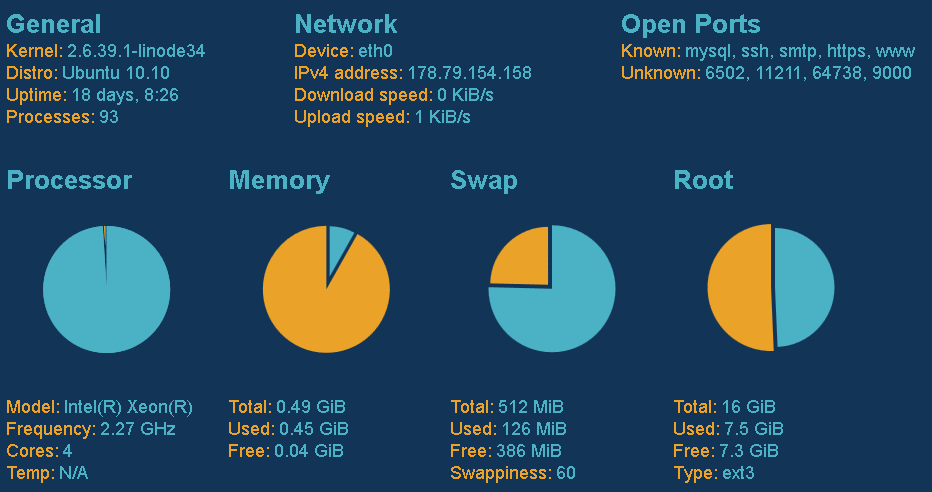
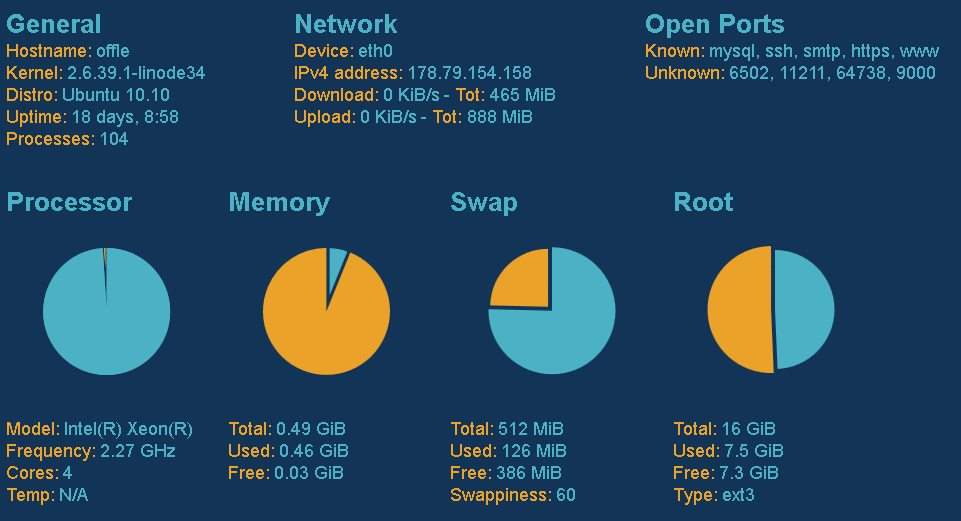
Added hostname and total ul/dl

diff --git a/index.html b/index.html
@@ -55,6 +55,8 @@
         $.getJSON('./php/get_data.php?q=network', function(data) {
             $('#dl_speed').html(data.dl_speed);
             $('#ul_speed').html(data.ul_speed);
+            $('#total_downloaded').html(data.total_downloaded);
+            $('#total_uploaded').html(data.ul_total_uploaded);
             setTimeout(get_network_json_data, 10 * 1000);
         });
     }
@@ -167,6 +169,7 @@
         <div id="without_graph" style="overflow:hidden;">
             <div style="float:left;">
                 <span class="header">General</span>
+                <div><span class="label">Hostname:</span> <span id="hostname" class="value"></span></div>
                 <div><span class="label">Kernel:</span> <span id="kernel" class="value"></span></div>
                 <div><span class="label">Distro:</span> <span id="distro" class="value"></span></div>
                 <div><span class="label">Uptime:</span> <span id="uptime" class="value"></span></div>
@@ -176,8 +179,8 @@
                 <span class="header">Network</span>
                 <div><span class="label">Device:</span> <span id="network_device" class="value"></span></div>
                 <div><span class="label">IPv4 address:</span> <span id="ipv4_addr" class="value"></span></div>
-                <div><span class="label">Download speed:</span> <span id="dl_speed" class="value"></span></div>
-                <div><span class="label">Upload speed:</span> <span id="ul_speed" class="value"></span></div>
+                <div><span class="label">Download:</span> <span id="dl_speed" class="value"></span> <span class="value"> -</span><span class="label"> Tot: </span><span id="total_downloaded" class="value"></span></div>
+                <div><span class="label">Upload:</span> <span id="ul_speed" class="value"></span> <span class="value"> -</span><span class="label"> Tot: </span><span id="total_uploaded" class="value"></span></div>
             </div>
             <div style="float:left; margin-left:7%;">
                 <span class="header">Open Ports</span>

diff --git a/php/systemstats.class.php b/php/systemstats.class.php
@@ -13,6 +13,10 @@ class SystemStats {
         return trim(shell_exec('uname -r'));
     }
 
+    public static function hostname() {
+        return trim(shell_exec("hostname"));
+    }
+
     public static function distro() {
         $info = shell_exec('cat /etc/*-release');
         preg_match('/DISTRIB_DESCRIPTION="(.*?)"/', $info, $m);
@@ -165,6 +169,26 @@ class SystemStats {
             return round($speed / pow(1024, 2)) . " MiB/s";
         } else {
             return round($speed / 1024) . " KiB/s";
+        }
+    }
+    
+    public static function total_downloaded() {
+        $dev = escapeshellarg(self::$network_dev);
+        $info = shell_exec("cat /proc/net/dev | grep ".$dev." | awk '{print $2}'");
+        if (($info / pow(1024, 2)) > pow(1024, 2)) {
+            return round($info / pow(1024, 3)) . " GiB";
+        } else {
+            return round($info / pow(1024, 2)) . " MiB";
+        }
+    }
+    
+    public static function total_uploaded() {
+        $dev = escapeshellarg(self::$network_dev);
+        $info = shell_exec("cat /proc/net/dev | grep ".$dev." | awk '{print $10}'");
+        if (($info / pow(1024, 2)) > pow(1024, 2)) {
+            return round($info / pow(1024, 3)) . " GiB";
+        } else {
+            return round($info / pow(1024, 2)) . " MiB";
         }
     }
     
